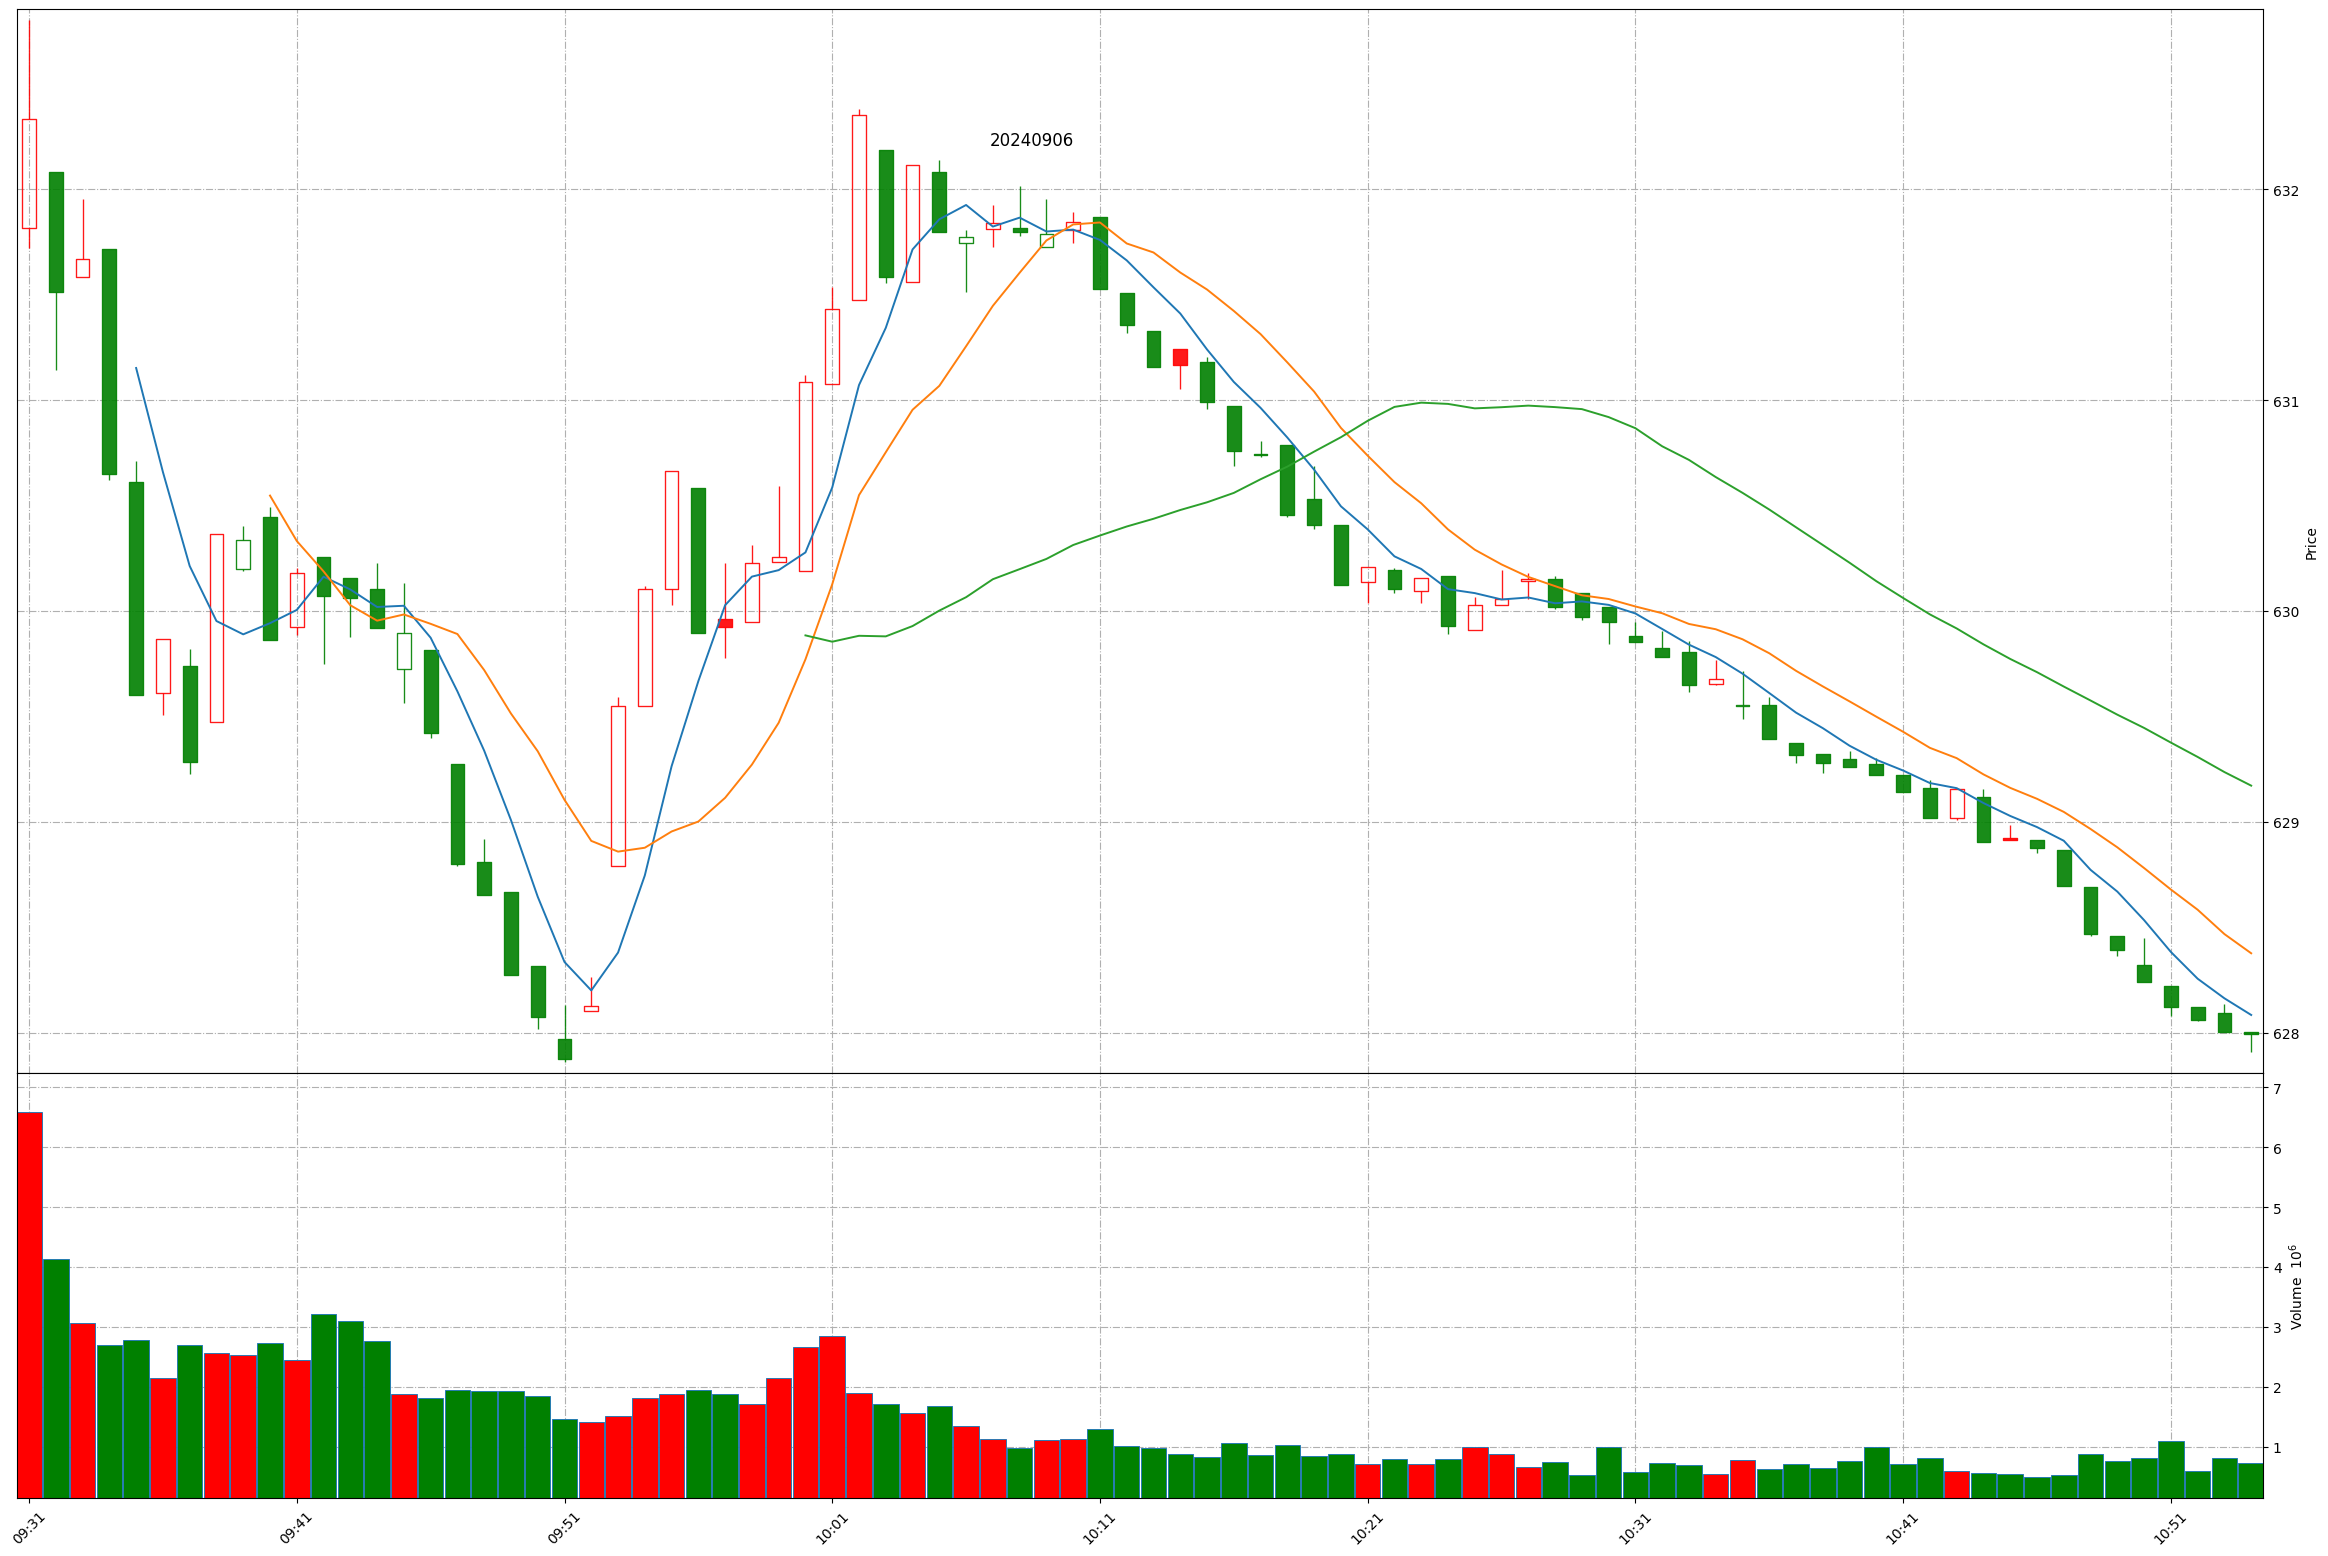
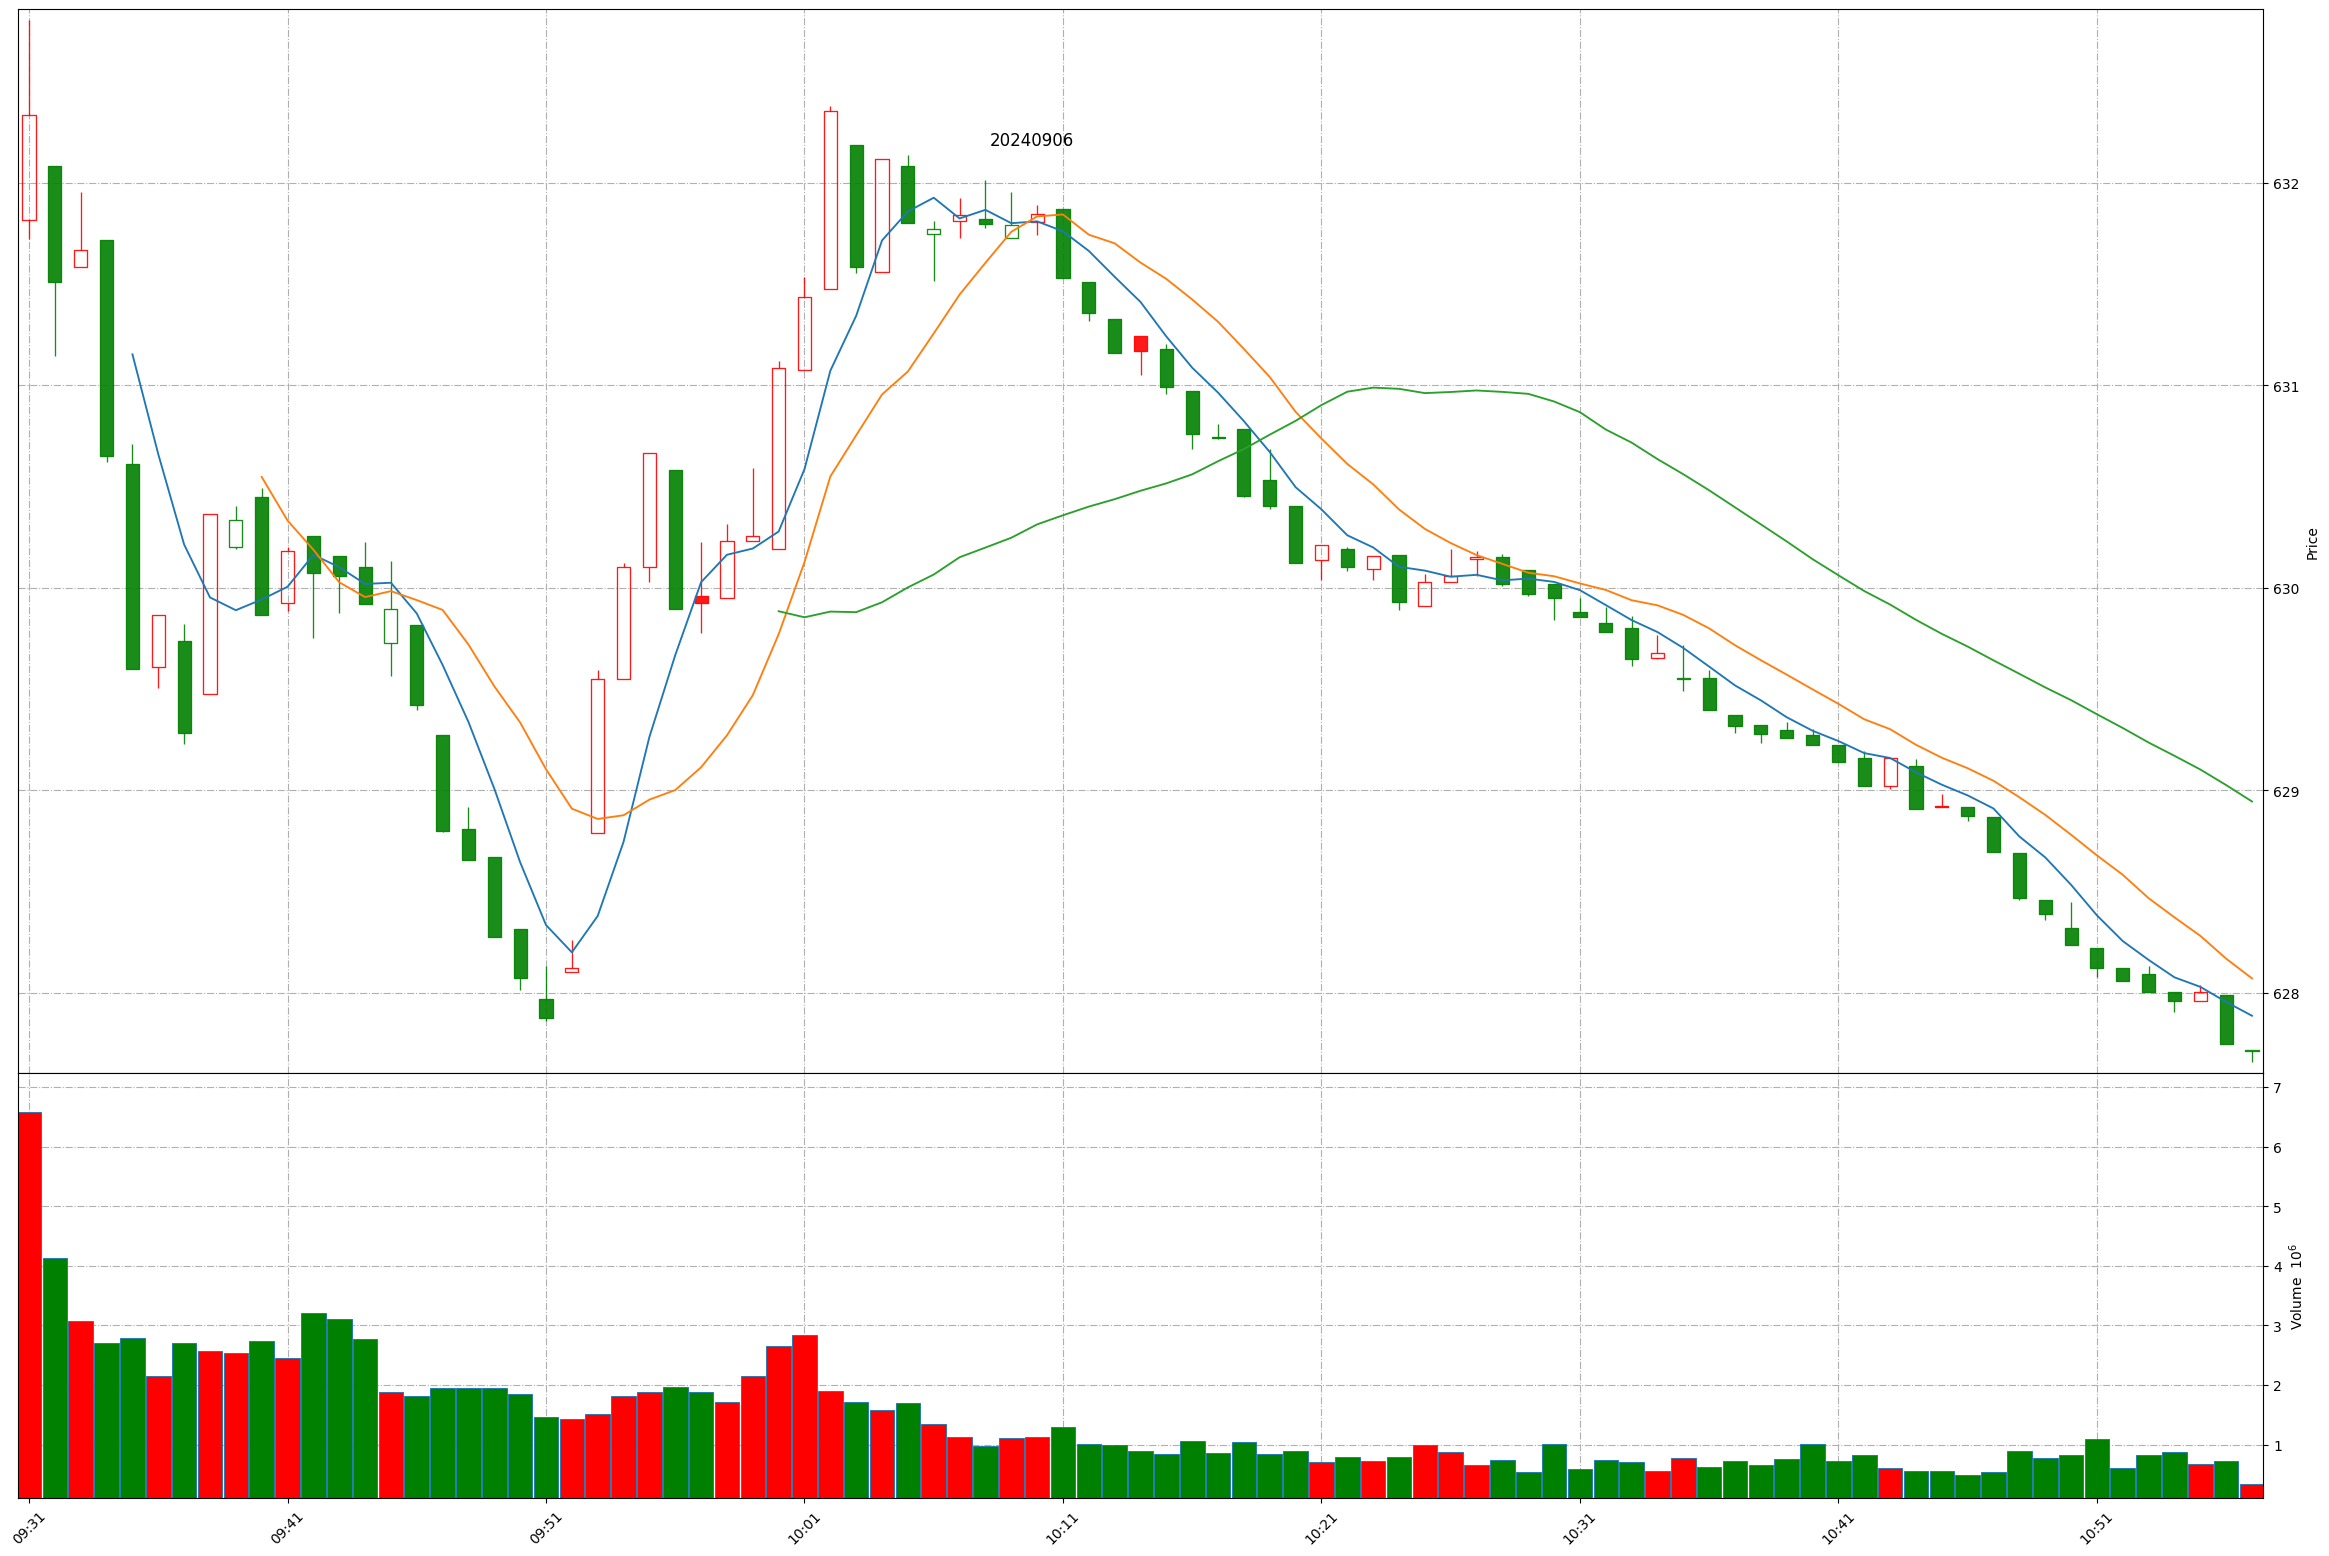
Github action update at 2024-09-06 10:56:52.

diff --git a/README.md b/README.md
@@ -1,11 +1,11 @@
 
 # Daily-A-share-market-quotes 每日 A 股指数（5min 更新）- 20240906
 
-### 上证指数 20240906 10:53
+### 上证指数 20240906 10:56
 ![](./fig/2024/9/20240906-sh000001.png)
 
-### 深证成指 20240906 10:53
+### 深证成指 20240906 10:56
 ![](./fig/2024/9/20240906-sz399001.png)
 
-### 北证50 20240906 10:53
+### 北证50 20240906 10:56
 ![](./fig/2024/9/20240906-bj899050.png)
